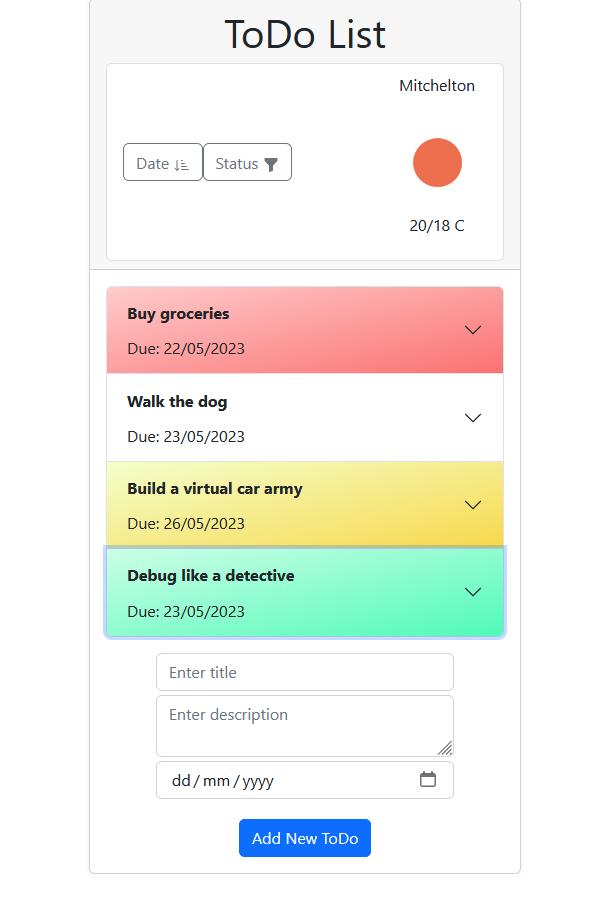
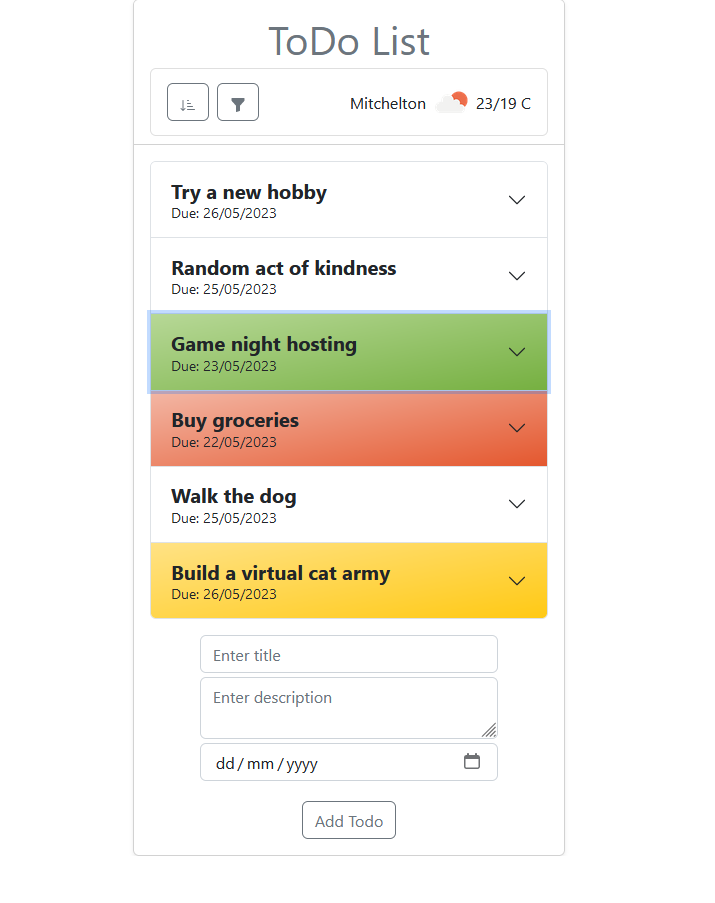
Readme update

diff --git a/src/components/TodoList.js b/src/components/TodoList.js
@@ -1,4 +1,4 @@
-import React, { useContext, useState, useEffect } from "react";
+import React, { useContext, useState } from "react";
 import { Card, Container, Accordion} from "react-bootstrap";
 import AddNewTodo from "./AddNewTodo";
 import { TodoListContext } from "../contexts/TodoLisContext";
@@ -23,9 +23,9 @@ const TodoList = () => {
     //console.log(editingTodo)
   };
 
-  useEffect(() => {
+/*   useEffect(() => {
     console.log("editingTodo changed:", editingTodo);
-  }, [editingTodo]);
+  }, [editingTodo]); */
 
   return (
     <Container className="container-fluid vh-80 d-flex justify-content-center align-items-center overflow-auto">

diff --git a/README.md b/README.md
@@ -2,26 +2,30 @@
 
 ## Description
 
-This ToDo List App is a simple **React** application designed for practicing the use of **Context** and **Reducer** for efficient state management. It additionally incorporates hooks such as the **useLocalStorage, useEffect, useState** and **Bootstrap** for enhanced user experience. Additionally **netlify function** is added for secure store of API key as an environment variable, ensuring it remains protected.
+The ToDo List App is a **React** application specifically designed to facilitate the practice of efficient state management using **Context** and **Reducer**. It leverages various hooks such as **useLocalStorage, useEffect, useState**, and **Bootstrap** to provide an enhanced user experience. To ensure the security of sensitive data, the app integrates **netlify functions**, which store the API key as an environment variable and guarantee its protection.
 
-In the app's header section, buttons for sorting the todos according to their due dates and statuses is placed. Additionally, weather details are shown based on the device's location, and if geolocation isn't accessible, default information is displayed instead. (Styling is in progress)
+In the header section of the app, users can find buttons for sorting their todos based on due dates and statuses. Moreover, the app displays weather details according to the device's location. In case geolocation is inaccessible, default information is presented instead.
 
-Each to-do item consists of a title, description, due date, and status (upon adding the task, the status automatically gets the To Do value). Users can add new tasks, edit the status of existing tasks, and delete tasks as needed.
+Each to-do item consists of a title, description, due date, and status. By default, a newly added task is assigned the "To Do" status. Users have the flexibility to add, edit, and delete tasks as required.
 
-Accordion component is used to display the list of tasks in a collapsible and expandable format to support mobile view rendering. Clicking on an accordion item's header toggles its expanded/collapsed state. This allows users to easily view and manage individual tasks. The status of each to-do can be modified in the expanded view of the accordion by simply clicking on icons (i.e. hourglass icon is for in progress status, trash bin icon is for delete etc.)
-To enhance the user experience, the accordion's header's background color changes dynamically based on the task's status (e.g., overdue (red), done (green), in progress (yellow)).
+Accordion component is used to display the list of tasks in a collapsible and expandable format to support mobile view rendering. Toggling the header of an accordion item expands or collapses its content, enabling users to view and manage individual tasks. The expanded view of the accordion allows for seamless modification of each to-do item by utilising intuitive icons (e.g., the hourglass icon signifies "In Progress", the tick in the circle used for "Done"items, a pencil on paper icon indicates editing of task properties, and a trash bin icon represents deletion).
 
-The useLocalStorage hook ensures persistent storage, allowing users to resume their to-do list management even after closing the browser or restarting the application. The app remembers the state of the to-do list, ensuring that tasks are listed as they were during the last session.
+To improve the user experience, the accordion's header's background color changes dynamically based on the task's status (e.g., overdue (red), done (green), in progress (yellow)).
+
+The useLocalStorage hook ensures persistent storage, allowing users to resume their to-do list management even after closing the browser or restarting the application. The app remembers the state of the to-do list, assuring that tasks are listed as they were during the last session.
+
+Weather information is updated regularly, either every hour, upon manual refresh, or when the user returns to the application. This guarantees that the weather details remain current and accurate.
 
 ## Features
 
 * Add new todos with a title, description and due date.
-* Sort todos based on due dates and statuses (within statuses todos are sorted by due dates)
-* Weather data display
-* Edit the status of todos using icons: the hourglass icon (yellow) represents 'in progress,' the tick in the circle icon (green) represents 'done,'
-* Delete todos using the red trash bin icon
-* Highlight overdue todos in red, completed todos in green and in progress todos in yellow for easy identification
-* Persistent storage for todos
+* Sort todos based on due dates and statuses (To Do prioritised first, then In Progress and Done last). Within each status, todos are further sorted based on due dates i.e. overdue items will be listed first.
+* The weather data display updates every hour, providing users with the most up-to-date information.
+* Edit todos by simply clicking on the editing icon. The respective todo is loaded into the form, and the button transforms into "Edit Todo" instead of "Add Todo." After the necessary modification has been made, click on the "Edit Todo" button to save the changes. As a result, the todo display will automatically update with the new information.
+* Manage the status of todos using intuitive icons: The yellow hourglass icon represents tasks "In Progress," while the green tick in the circle icon signifies tasks that are "Done."
+* To delete todos use the red trash bin icon
+* To enhance visibility and for ease of identification highlighting of overdue todos in red, completed todos in green, and in-progress todos in yellow are applied.
+* Persistent storage for todos allowing users to resume their task management from where they left off, even after closing the application.
 
 ## Demo
 
@@ -31,16 +35,27 @@ Check out the deployed app at https://todo-list-react-k.netlify.app
 
 | Desktop | Mobile |
 |---------|---------|
+|Starting page||
 | ![Start display desktop](./public/start_display_desktop.png) | ![Start display mobile](./public/start_display_mobile.png) |
+|ToDos display||
 | ![Todos desktop](./public/todos_desktop.png) | ![Todos desktop](./public/todos_mobile.png) |
+|Opened ToDo||
 | ![Open todo desktop](./public/todos_open_desktop.png) | ![Open todo desktop](./public/todos_open_mobile.png) |
+|Sorted by due date||
 | ![Sorted by due date](./public/todos_desktop_sorted_duedate.png) | ![Sorted by due date](./public/todos_mobile_sorted_duedate.png) |
+|Sorted by status||
 | ![Sorted by status](./public/todos_desktop_sorted_status.png) | ![Sorted by status](./public/todos_mobile_sorted_status.png) |
+|Edit todo||
+| ![Edit click desktop](./public/todo_edit_upon_click_desktop.png) | ![Edit click mobile](./public/todo_edit_upon_click_mobile.png) |
+| ![Edit todo desktop](./public/todo_edit_desktop.png) | ![Edit todo mobile](./public/todo_edit_mobile.png) |
+| ![Edited todo desktop](./public/todo_edited_desktop.png) | ![Edited todo mobile](./public/todo_edited_mobile.png) |
 
 
 ## Getting Started
 
-1. To run the app locally, clone the repository to your local machine:
+Follow these steps to run the app locally:
+
+1. Clone the repository to your local machine:
 
 ```git clone https://github.com/your-username/react-todo-list.git```  
 
@@ -48,11 +63,17 @@ Check out the deployed app at https://todo-list-react-k.netlify.app
 
 ```cd react-todo-list```  
 
-3. Start the app:
+3. Install the necessary dependencies:
 
-```npm start``` or ```yarn start```  
+```npm install```
 
-4. This will start the app in development mode and open it in your default browser at http://localhost:3000.
+4. To use the application locally, an API Key needs to be requested from the [OpenWeatherMap](https://openweathermap.org/) site and utilise.
+
+5. Start the app:
+
+```npm start```
+
+6. This will launch the app in development mode and automatically open it in your default browser at http://localhost:3000.
 
 
 ## License
